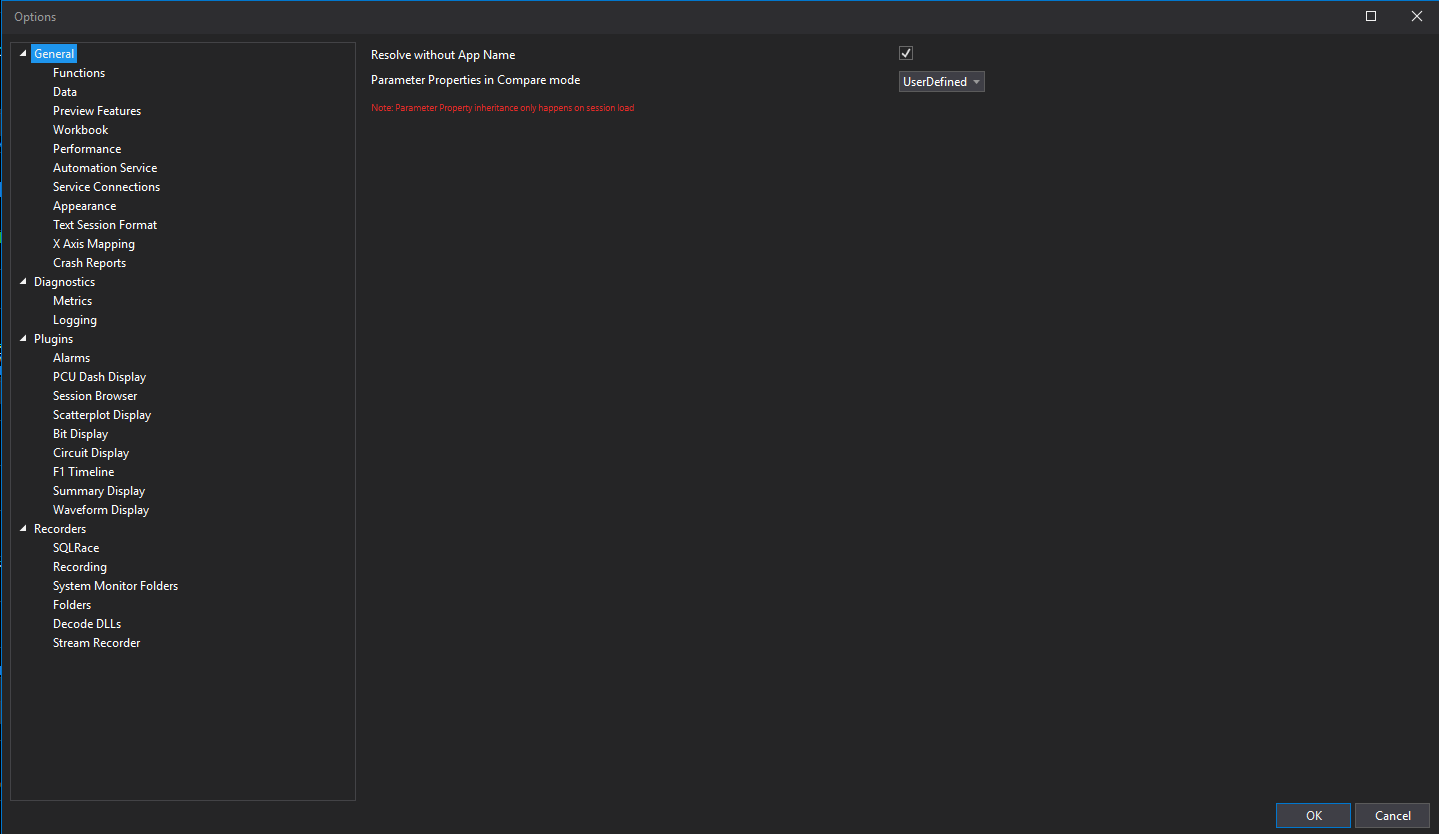
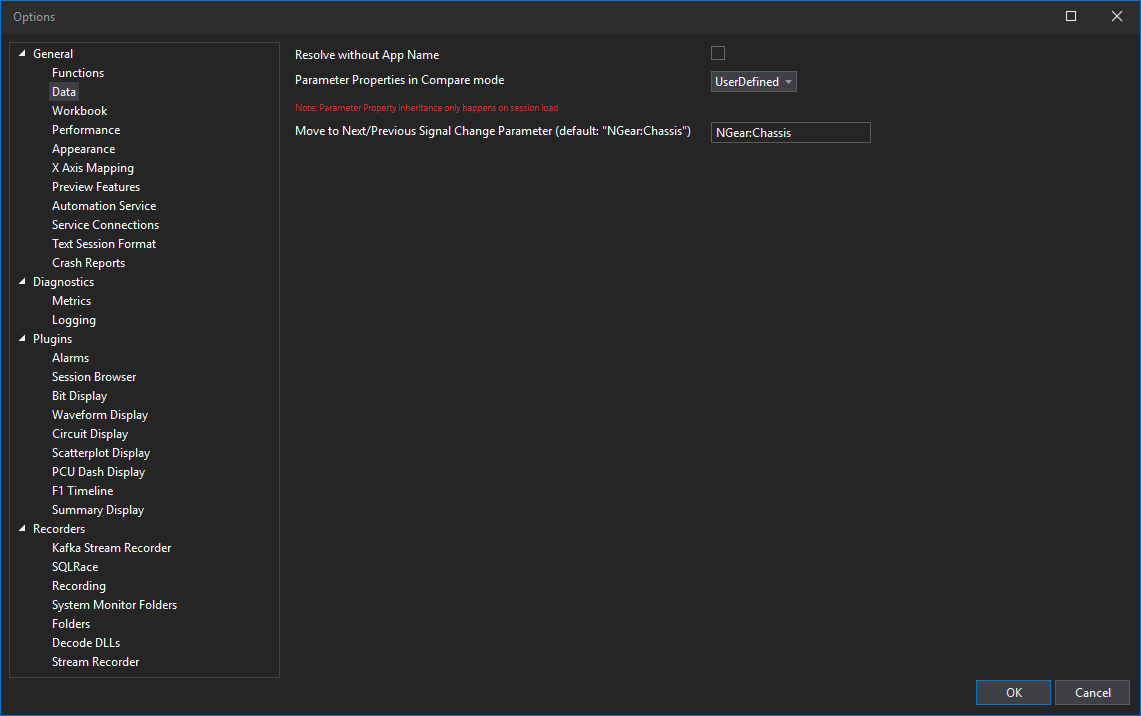
next/prev signal change

diff --git a/docs/key-functionality/analyse/viewer/system-operation/options.md b/docs/key-functionality/analyse/viewer/system-operation/options.md
@@ -14,6 +14,7 @@ To view the Options screen select Tools > Options.
 | Constants Folder Location           | Sets the folder for loading and saving Constants, which are reusable values or parameters used in calculations or scripts. Like the Functions folder, this can be edited or browsed to. Ensures all constants are centralised for easier management and sharing.                                                                                                                                                | Functions           | C:\Users\USERNAME\Documents\McLaren Applied Technologies\ATLAS 10\Constants                    |
 | Resolve without App Name            | When enabled, allows parameters to be loaded from sources that use different Application Groups, so you can see and use channels even if the application names don’t match exactly. Useful for working with data from multiple sources or legacy systems.                                                                                                                    | Data                | Off by default                                                                                  |
 | Parameter Properties in Compare mode| Determines how parameter properties (such as units, scaling, etc.) are inherited when comparing multiple sessions: <br>• **Primary Session**: Secondary sessions inherit properties from the primary session.<br>• **User Defined**: Local changes to secondary session properties are retained.<br>• **Default Data**: Properties stored within each session are loaded. Useful for ensuring consistency or flexibility in data comparison. | Data                | User selects mode                                                                              |
+| Move to Next/Previous Signal Change Parameter | Allows any parameter to be configured to move Cursor to Next / Previous signal value change. | Data | `NGear:Chassis` |
 | Recent Workbook Max Count           | Sets the maximum number of recent Workbooks shown in the File > Recent Workbooks menu, making it easier to quickly reopen frequently used files.                                                                                                                                                                                                                                                                | Workbook            | 15                                                                                             |
 | Load Sessions with Workbooks        | If enabled, when you open a Workbook, all sessions that were loaded when it was last closed are automatically reloaded. This helps restore your previous working context.                                                                                                                                                                                                | Workbook            | Checkbox                                                                                       |
 | Open Last Workbook when Starting    | When enabled, ATLAS will automatically reopen the last opened or saved Workbook at startup, streamlining workflow continuity.                                                                                                                                                                                                                                            | Workbook            | Checkbox                                                                                       |

diff --git a/docs/key-functionality/analyse/viewer/system-operation/toolbar.md b/docs/key-functionality/analyse/viewer/system-operation/toolbar.md
@@ -53,8 +53,8 @@ Toolbars can be moved and rearranged by dragging the toolbar handle, found on th
 | Move to Current Lap | ![icon](assets/current.png) | Zoom so only the currently selected lap is visible. | Laps Toolbar |
 | Move to Next Lap | ![icon](assets/next.png) | Advance the cursor to the next lap. | Laps Toolbar |
 | Laps & Markers Editor | ![icon](assets/lap-editor.png) | Open the editor to view or modify laps and markers in the primary session. | Laps Toolbar |
-| Move to Next Gearshift | ![icon](assets/next-gear.png) | Navigate to the adjacent gear‑shift event (next). | Laps Toolbar |
-| Move to Previous Gearshift | ![icon](assets/previous-gear.png) | Navigate to the adjacent gear‑shift event (previous). | Laps Toolbar |
+| Move to Next Signal Change | ![icon](assets/next-gear.png) | Navigate to the adjacent signal change (next). | Laps Toolbar |
+| Move to Previous Signal Change | ![icon](assets/previous-gear.png) | Navigate to the adjacent signal change (previous). | Laps Toolbar |
 | Quick Access Assistant | ![icon](assets/quick-access.png) | Launch the assistant to quickly add parameters, functions, displays, or pages. | Quick Access Toolbar |
 | Go To | ![icon](assets/go-to.png) | Launch the Go To plugin to jump to a specific lap or marker in the primary session. | Go To Feature Toolbar |
 | Refresh Calculated Parameters | ![icon](assets/refresh-params.png) | Recompute all calculated parameters across the entire workbook. | Refresh Toolbar |

diff --git a/docs/key-functionality/analyse/viewer/system-operation/keyboard.md b/docs/key-functionality/analyse/viewer/system-operation/keyboard.md
@@ -78,8 +78,8 @@
 | ++ctrl+f++                                                  | Move to fastest lap                                                                     |
 | ++ctrl+bracket-right++                                      | Go to next occurrence of event                                                          |
 | ++ctrl+bracket-left++                                       | Go to previous occurrence of event                                                      |
-| ++ctrl+alt+right++                                          | Go to next gear shift                                                                   |
-| ++ctrl+alt+left++                                           | Go to previous gear shift                                                               |
+| ++ctrl+alt+right++                                          | Go to next signal change                                                                |
+| ++ctrl+alt+left++                                           | Go to previous signal change                                                            |
 
 ## Displays
 
